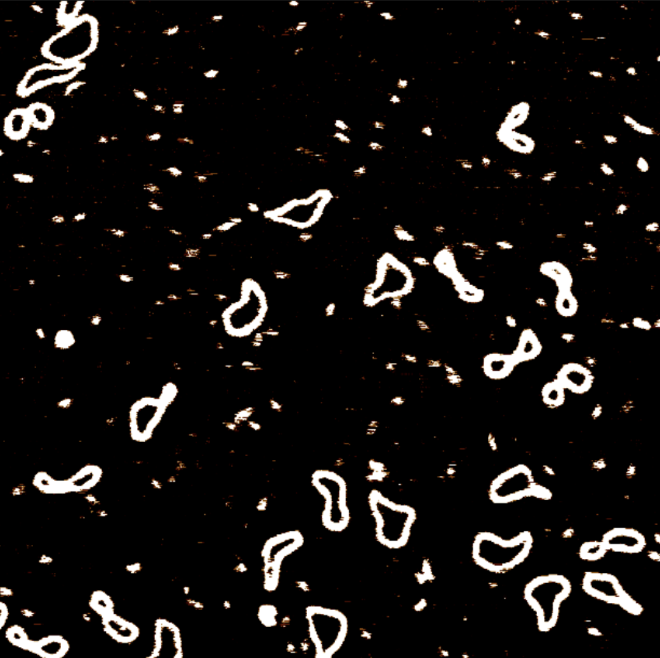
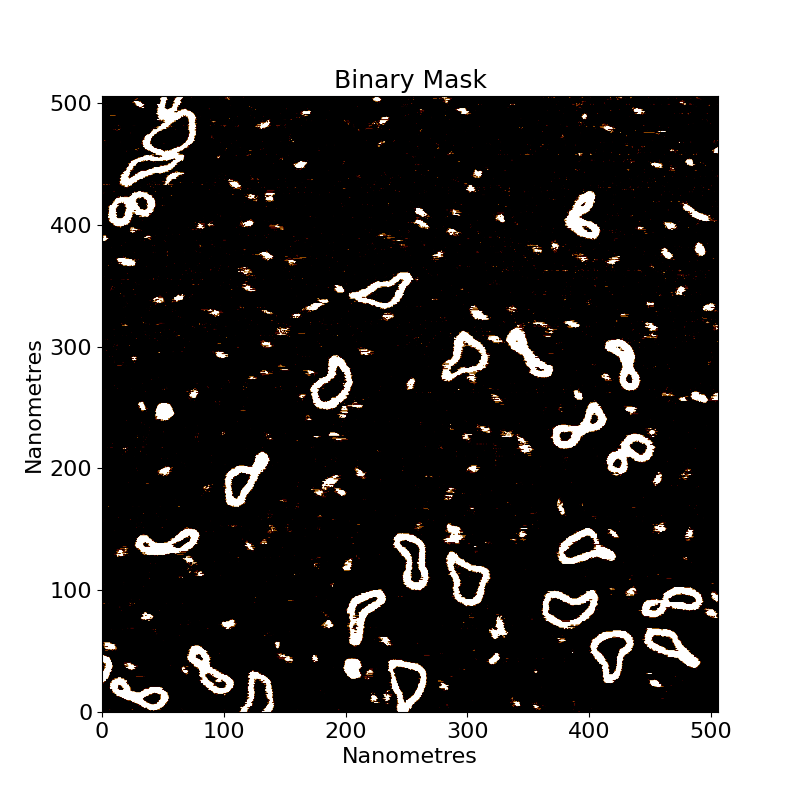
PR Feedback: Improve filtering images

diff --git a/docs/basic/flattening.md b/docs/basic/flattening.md
@@ -59,9 +59,9 @@ differences.
 
 ## Scar removal
 
-We then run scar removal on the image. This is a special function that detects scars (long, thin, bright streaks in the
-data, caused by physical problems in the AFM process). We are using a different image here since our lovely
-minicircles.spm image doesn’t have any scars.
+We then run scar removal on the image. This is a special function that detects scars (long, thin, bright / dark
+streaks in the data, caused by physical problems in the AFM process). We are using a different image here as an
+example since our lovely minicircles.spm image doesn’t have any scars.
 
 ![scarred image](../_static/images/flattening/flattening_scarred_image.png)
 
@@ -99,9 +99,7 @@ For more information on thresholding and how to set it, see the [thresholding](t
 
 Here is the binary mask for minicircle.spm:
 
-![processed image so far](../_static/images/flattening/flattening_tilt_removal.png)
-
-![binary mask](../_static/images/flattening/flattening_binary_mask.png)
+![tilt_removed_with_mask](../_static/images/flattening/tilt_removed_with_mask.png)
 
 So you can see how all the interesting foreground (high) regions are now masked in white, and the background is in
 black.
@@ -129,18 +127,4 @@ you can adjust this in the config file under `filter/gaussian_size`.
 
 Here are some examples of different gaussian sizes:
 
-### Strength: 0.01
-
-![gaussian_filter_0](../_static/images/flattening/flattening_gaussian_filtered_0.png)
-
-### Strength: 1.0
-
-![gaussian_filter_01](../_static/images/flattening/flattening_gaussian_filtered_01.png)
-
-### Strength: 2.0
-
-![gaussian_filter_02](../_static/images/flattening/flattening_gaussian_filtered_02.png)
-
-### Strength: 8.0
-
-![gaussian_filter_08](../_static/images/flattening/flattening_gaussian_filtered_08.png)
+![gaussian_sizes](../_static/images/flattening/gaussian_sizes.png)
